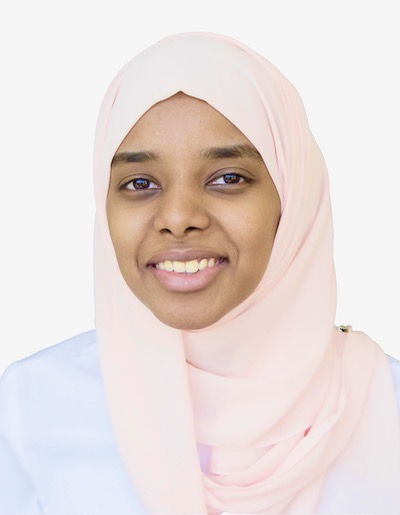
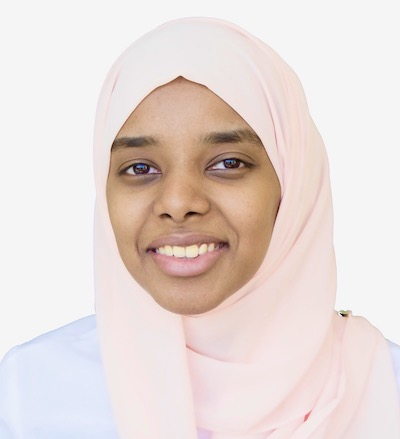
Style personal photo

diff --git a/src/components/About.js b/src/components/About.js
@@ -34,7 +34,7 @@ const About = () => {
         </ul>
       </div>
       <div className="right">
-      <img src={personalPic} alt="Personal picture" />
+        <img className="photo" src={personalPic} alt="Personal picture" />
       </div>
     </div>
   )

diff --git a/src/style/about.css b/src/style/about.css
@@ -15,4 +15,10 @@ li {
 
 .about{
   display: flex;
+  align-items: center;
+  gap: 10%;
+}
+
+.photo {
+  width: 300px;
 }
